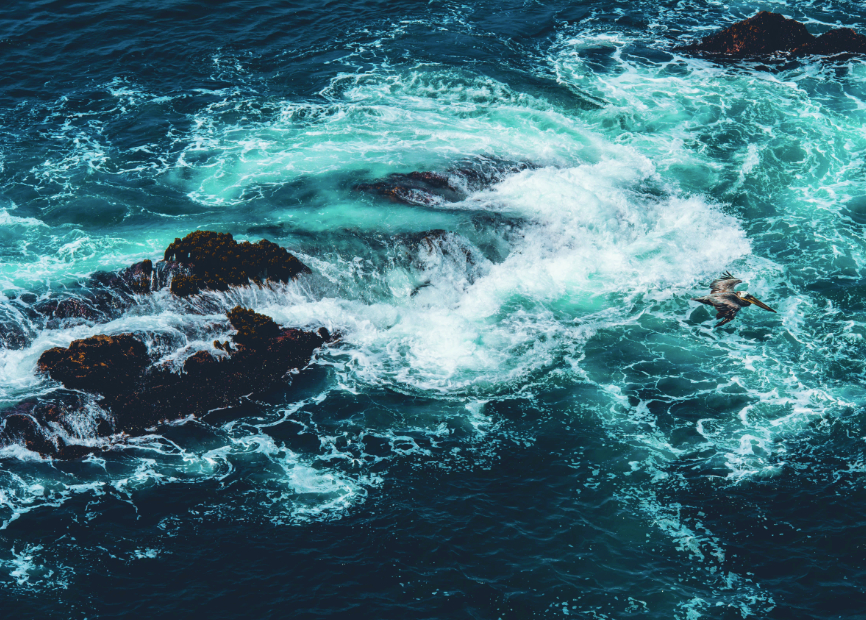
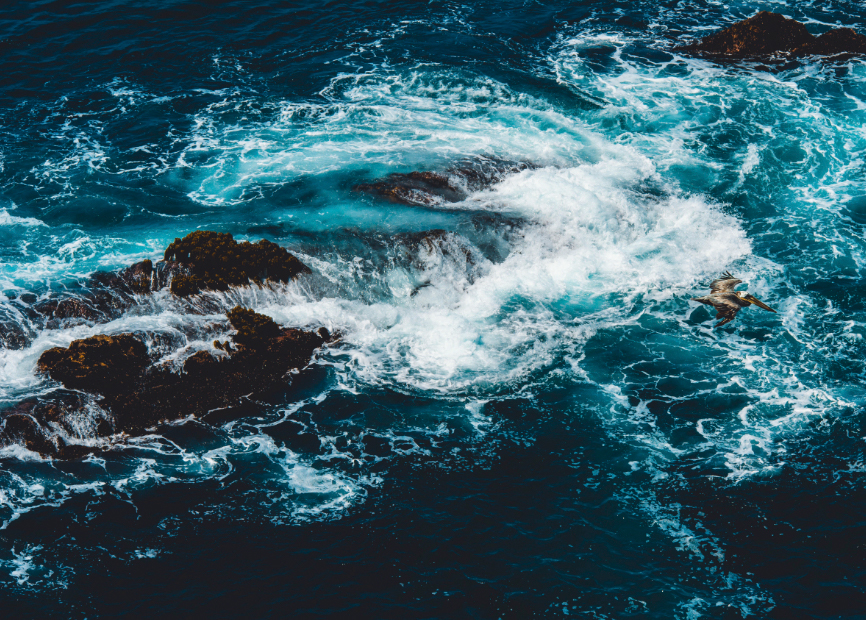
Picture shows up with the wrong colors (Firefox)

diff --git a/CSS/contact-b.css b/CSS/contact-b.css
@@ -253,7 +253,7 @@ ul li ul li a {
   height: 620px;
   left: 13.4895833%;
   top: 22.4%;
-  background: url(../img/Blue-Water_cropped.jpg);
+  background-image: url(../img/Blue-Water_cropped.jpg);
 }
 
 /* Resp Contact */
